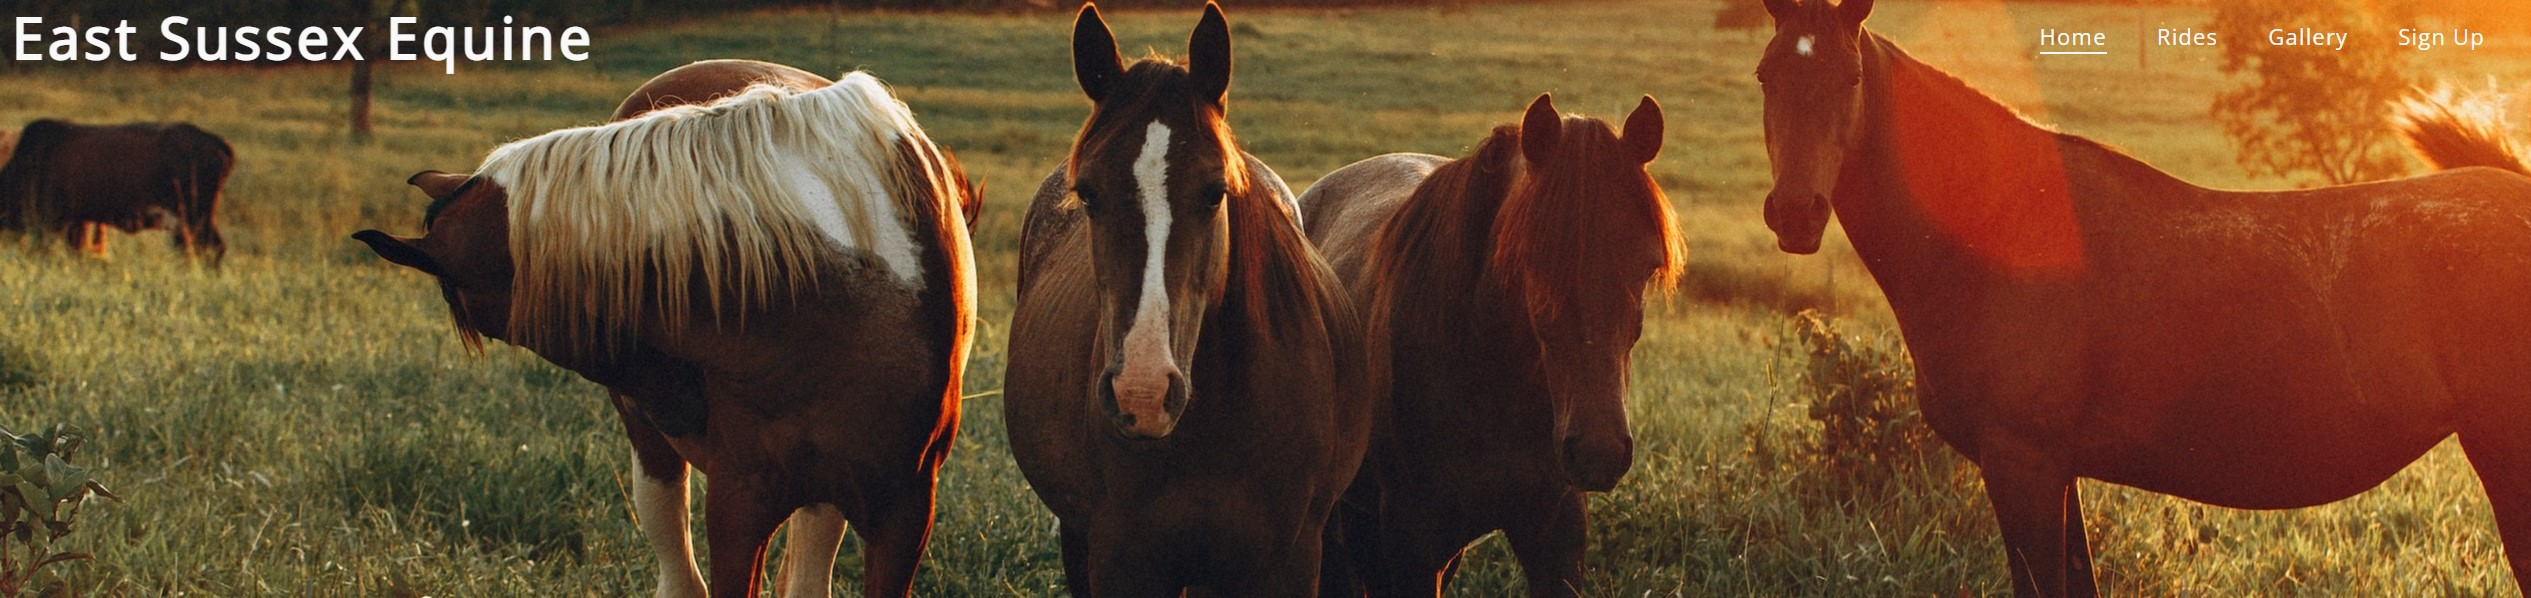
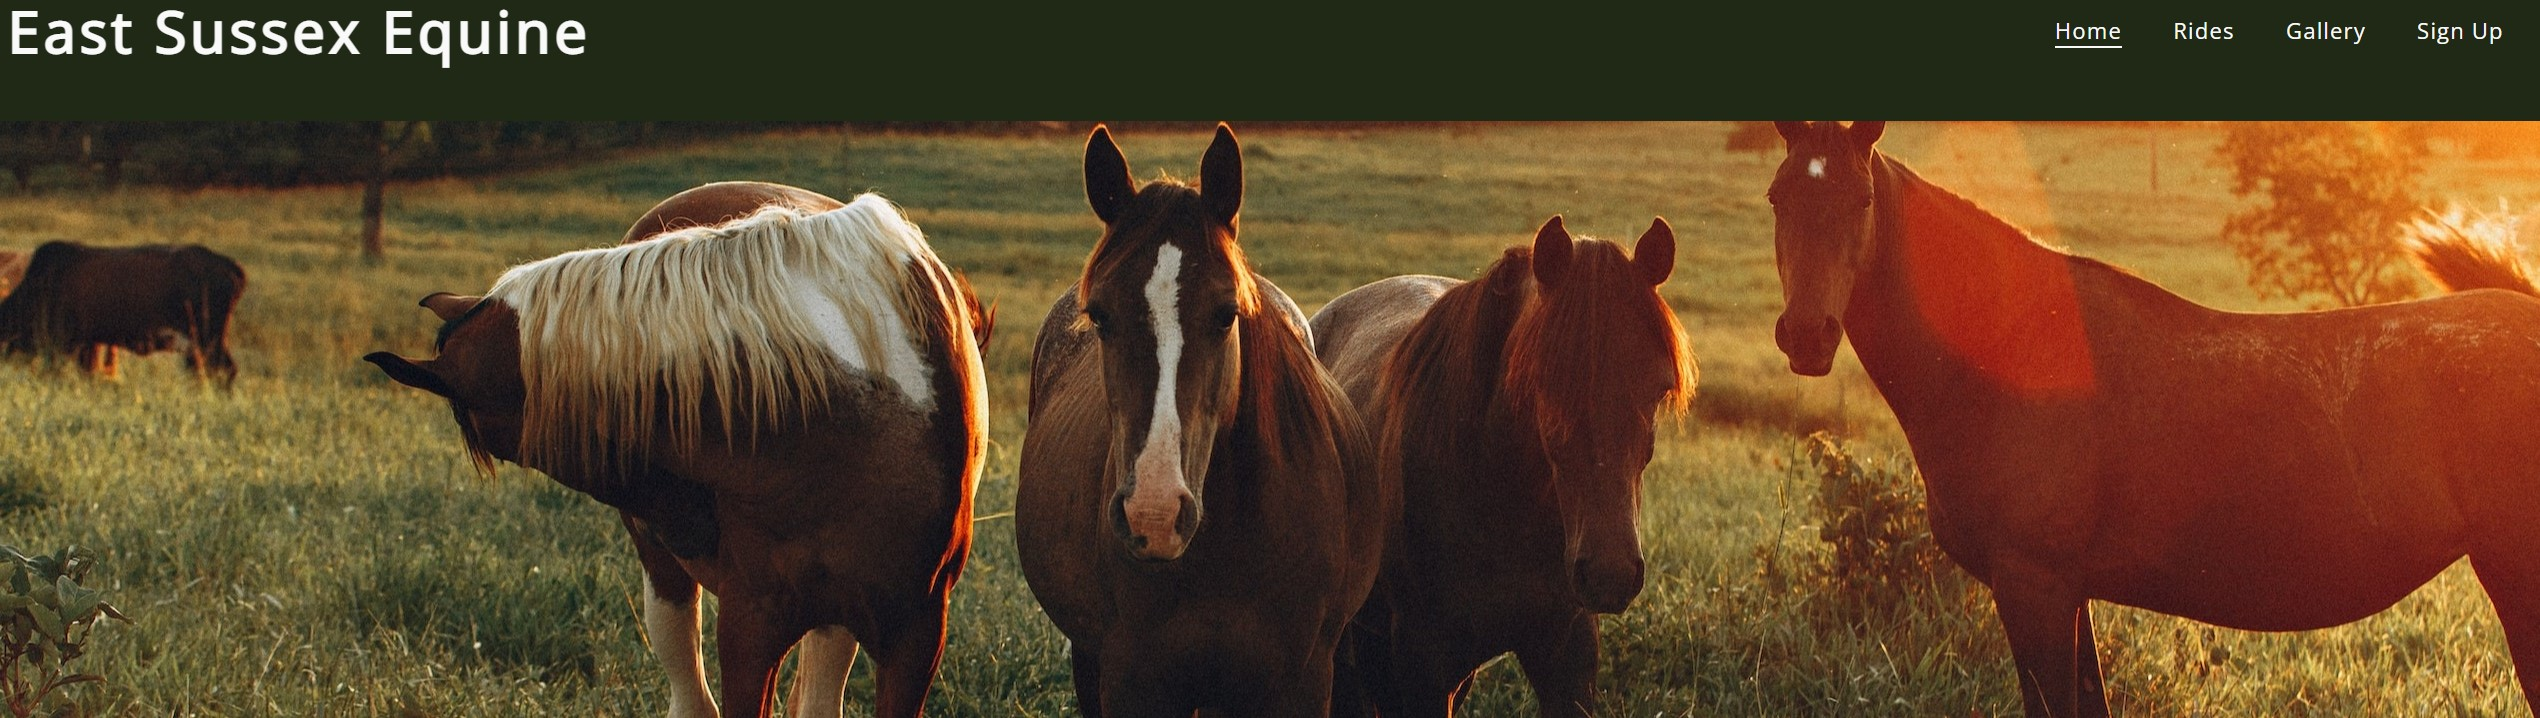
Update readme file.

diff --git a/README.md b/README.md
@@ -2,30 +2,36 @@
 
 Welcome to my first ever website! For my first ever site I wanted to choose a topic that lies close to my heart: horse riding. East Sussex Equine is a website that provides users the opportunity to learn more about the riding school and the services it provides. The riding school would be based in East Sussex in England where I grew up, which has beautiful countryside perfect for exploring on horseback. The goal is to create a friendly yet professional looking website to encourage people of any skill level to have a go. In order to achieve this the site must offer plenty of information about the types of rides offered, along with a way to sign up online to make it easy  for potential customers to join. 
 
-![A screenshot of my finished website appearing on different devices](./docs/screenshots/finished.jpg)
-
+### Link to deployed site: https://madeleinewalder.github.io/East-Sussex-Equine/ 
 ---
 
 ## Existing Features:
 
+### Color Scheme
+
+- I decided to use a color scheme of green and white to match the color of country side and nature around the location where the stables would be based. Green fields are a common location for horses and white stands out well against it making for a calming and natural look.
+
 ### The Header
 
-- The header shows the logo and the navigation bar. Both can be clicked on to take the user to different parts of the site. I made these white to stand out better against the image background. I found that darker text blended in too well with the dark green and brown shades of the image. 
+- **Logo:** The logo is white which follows the color scheme for all text on this site. It also has a heavier font-weight to help it stand out as a logo should. It can be clicked on to navigate the user back to the main page, from the Gallery for example.
+
+![A close up of the logo](./docs/screenshots/newheader.jpg)
+
+- **Navigation bar:** Can be clicked on to take the user to different parts of the site. The navigation options underline when you hover over them, and stay underlined to show what page you are on. 
+
 ![A close up of the navigation bar](./docs/screenshots/nav.jpg)
 
-- The navigation options underline when you hover over them, and stay underlined to show what page you are on.
-
-- At first I was going to make the background just one solid colour, but then I found the hero image which I thought was beautiful and worked really well as a background instead. I knew I wanted the colour theme of my site to be green with white text, to match the colours of the countryside and give the site a natural feel. I actually ended up using a site called **imagecolorpicker.com** to pick specific shades of green from the image, which I then used throughout the site. This really helped the site come together as it gave it a feel of consistency.
+- **Hero Image:** I decided to use this image as the hero image as I liked the colors and it was very eye-catching yet not too distracting. I knew I wanted the colour scheme of my site to be green with white text, so I actually ended up using a site called [imagecolorpicker.com](https://imagecolorpicker.com/en) to pick specific shades of green from the image, which I then used throughout the site, including the dark green background for the logo and navigation bar. This really helped the site come together as it gave it a feel of consistency and made every section fit together.
 ![A screenshot of the header containing the hero image, logo and navigation bar](./docs/screenshots/header.jpg)
 
 ### About Section
 
-- The goal of this section is to answer three main questions users might have when visiting the site for the first time: Why should I try horse riding? Why should I ride here specifically? What equipment to I need to ride? It was important not to have too much information here, as I don't want to overwhelm the user. Instead I stuck to three questions with three very short paragraphs containing the most helpful and condensed information to make it easy to read. I added icons to the questions from **fontawesome.com** to help make it more clear what each paragraph was going to be about and draw the users attention.
+- The goal of this section is to answer three main questions users might have when visiting the site for the first time: Why should I try horse riding? Why should I ride here specifically? What equipment to I need to ride? It was important not to have too much information here, as I don't want to overwhelm the user. Instead I stuck to three questions with three very short paragraphs containing the most helpful and condensed information to make it easy to read. I added icons to the questions from [fontawesome.com](https://fontawesome.com/) to help make it more clear what each paragraph was going to be about and draw the users attention.
 ![A screenshot of the About section](./docs/screenshots/about.jpg)
 
 ### Rides Section
 
-- I knew when beginning to plan my website by drawing out a rough layout that I wanted to enclude two images here. One would go with information about riding indoors and one for riding outdoors. I sourced all of my images for this project from **pexels.com** which has thousands of free images to use.
+- I knew when beginning to plan my website by drawing out a rough layout that I wanted to enclude two images here. One would go with information about riding indoors and one for riding outdoors. I sourced all of my images for this project from [pexels.com](https://www.pexels.com/) which has thousands of free images to use.
 
 - I used the same font, font color and included icons again to keep consistancy. The background colour is different to show clearly that it is a different section and to break up the page a little. As mentioned earlier this colour is also taken from the hero image, and contrasts nicely with the white text. It's also not too distracting from the images used here.
 ![A screenshot of the Rides section](./docs/screenshots/rides.jpg)
@@ -60,14 +66,19 @@ Welcome to my first ever website! For my first ever site I wanted to choose a to
 
 ## Testing: 
 
-- I have tested my site on different screen sizes using Devtools to check that it works.
-- I have filled out the form multiple times to make sure it works and all the fields are required.
-- I have navigated to different sections and pages using the navigation bar to test that it works.
+- I have tested my site on different screen sizes using Devtools and [amiresponsive.com](https://ui.dev/amiresponsive) to check that it works.
+
+![A screenshot of my finished website appearing on different devices](./docs/screenshots/finished.jpg)
+
 - I have tested my site using the devtools Lighthouse feature. The score is very good with a minimum of 90% in each field.
 
-Lighthouse report:
-
 ![The lighthouse report showing every field is green](./docs/screenshots/lighthouse2.jpg)
+
+- I have filled out the form multiple times to make sure it works and all the fields are required. Apon submitting the form you receive a conformation message on a separate page.
+
+![]()
+
+- I have navigated to different sections and pages using the navigation bar to test that it works.
 
 ---
 
@@ -104,8 +115,16 @@ After fix:
 
 ## Deployment:
 
-I deployed my site through Github pages.
-- First I went to Github and found my project repository on the left hand side and clicked it
+### Gitpod
+
+- Typing 'python3 -m http.server' into the Gitpod terminal allows you to view the site in a browser as if it were live
+- Every time a secton of code is added the browser can be refreshed to see the change, sometimes you need to press ctrl, shift and R for changes to be updated
+- To save and commit progress, type 'git add .' into the terminal followed by 'git commit -m' and then your message describing what you did in double quotes
+- Typing 'git push' will then push your code, and this should be done at the end of every coding session or whenever you want an already deployed site to be updated
+
+### Github Pages
+
+- To deploy my site I first went to Github and found my project repository on the left hand side and clicked it
 - I then clicked on 'Settings' and then the 'Pages' option on the left   
 - Here I changed the branch from 'none' to 'main'
 - Finally I clicked save and after a short while it produced a link to my deployed site
